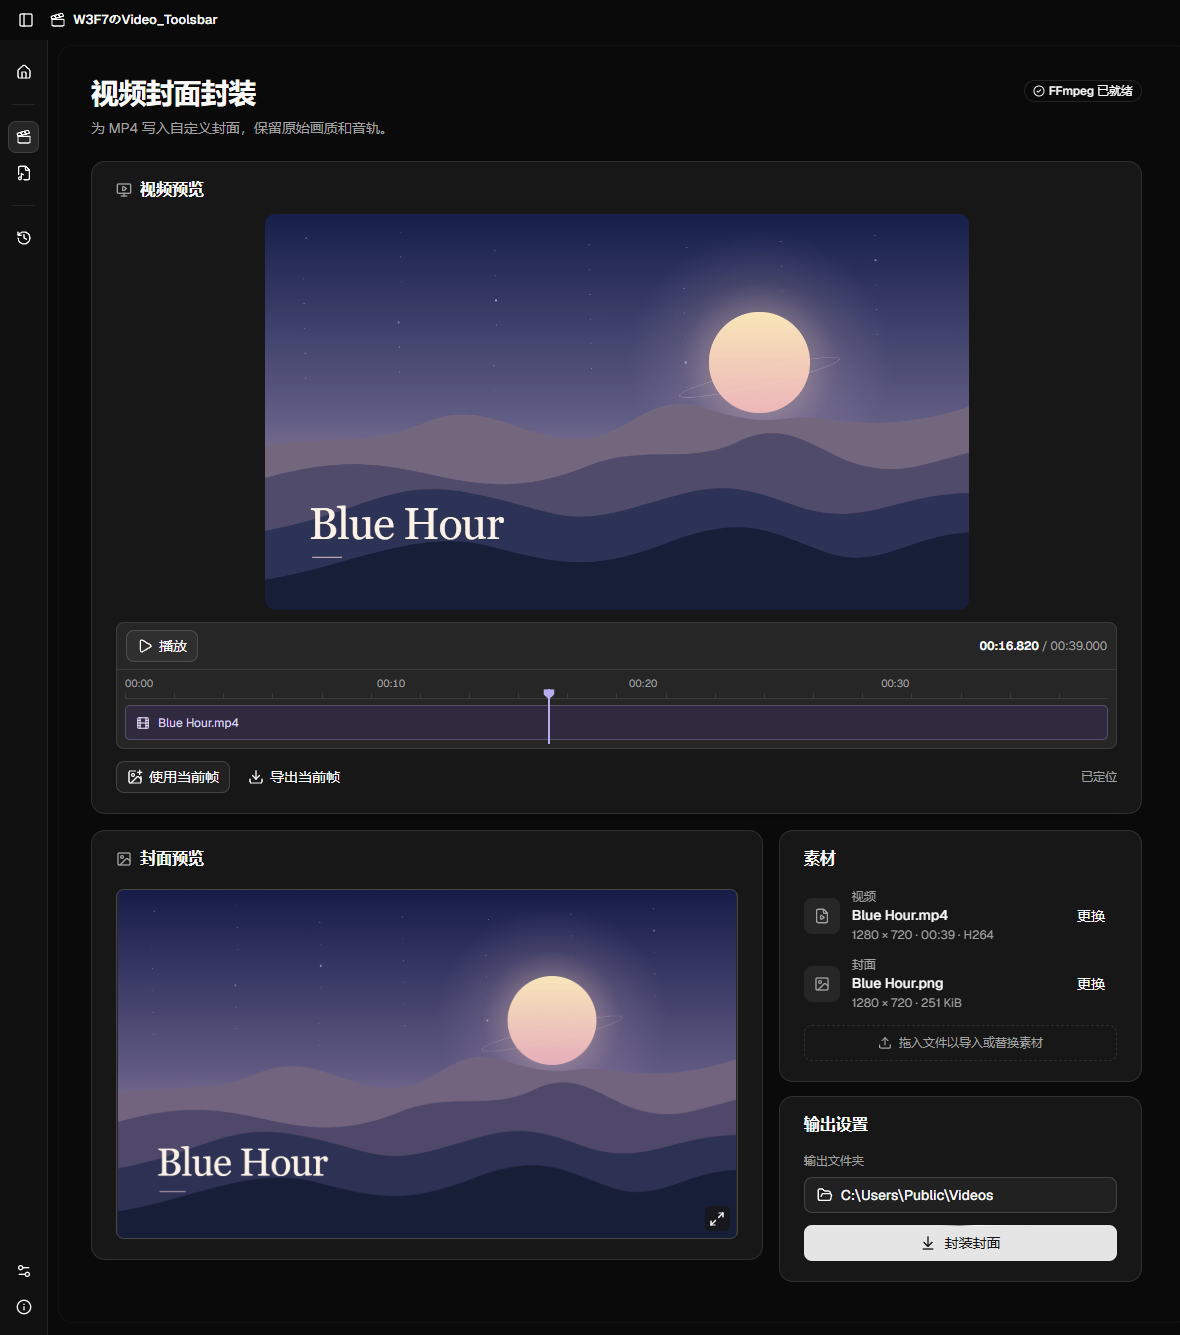
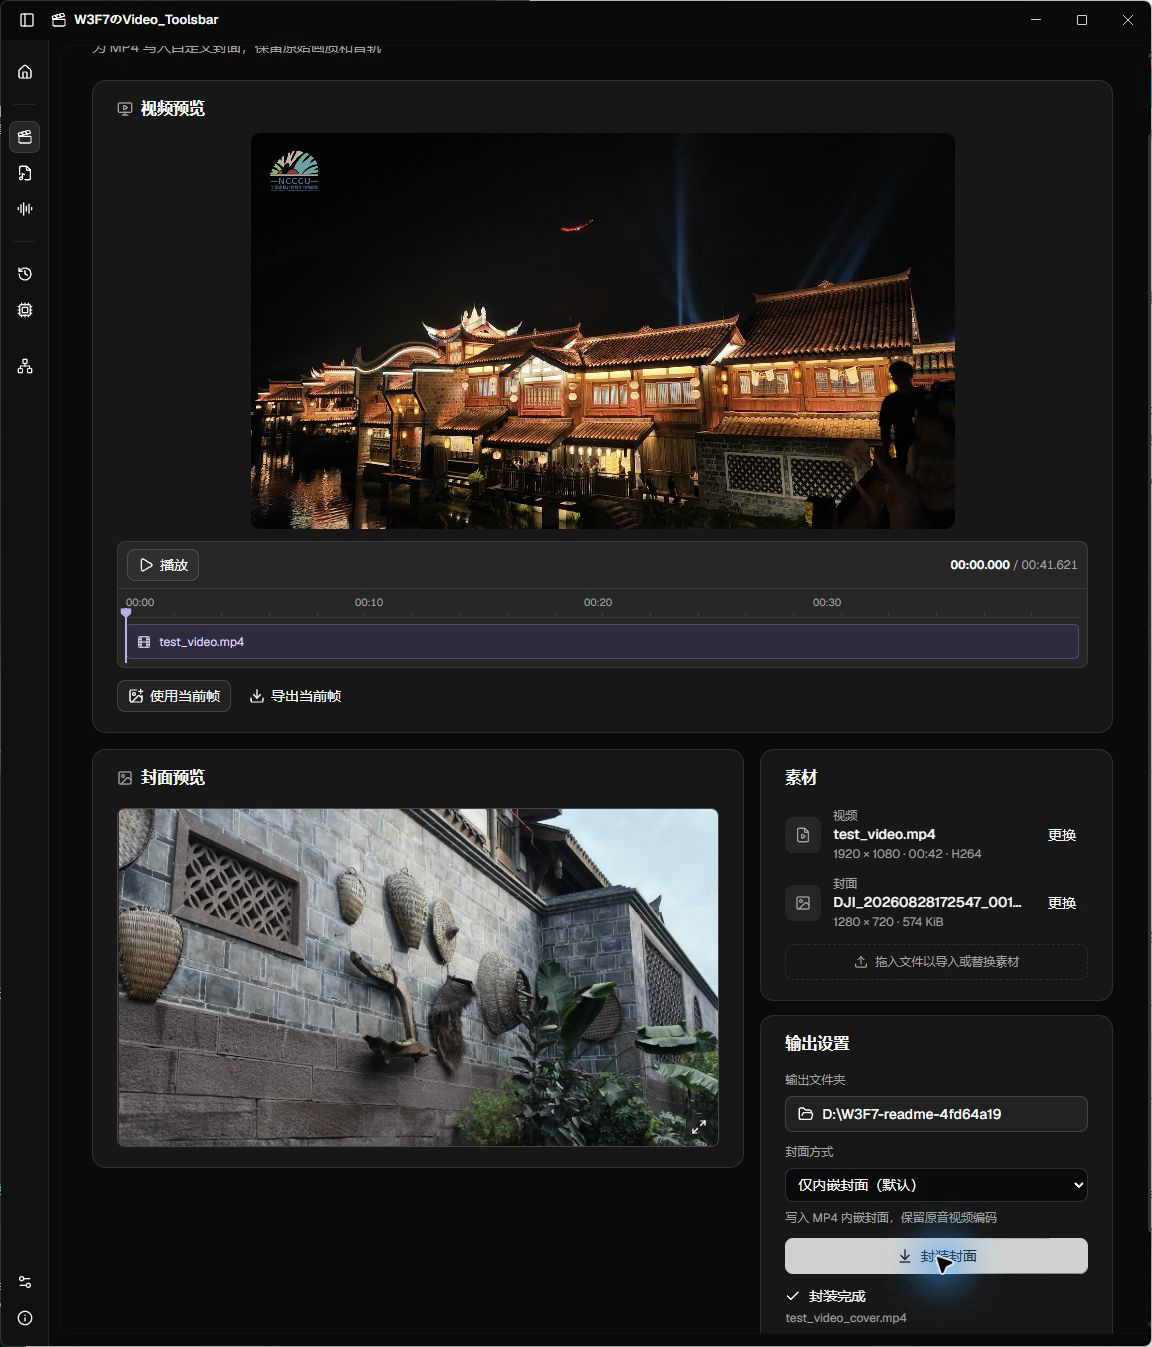
Refresh README with real application screenshots

diff --git a/README.md b/README.md
@@ -12,21 +12,33 @@
 [![MIT 许可](https://img.shields.io/badge/license-MIT-805abc?style=flat-square)](LICENSE)
 [![FFmpeg](https://img.shields.io/badge/engine-FFmpeg-4e9a76?style=flat-square)](https://ffmpeg.org/download.html#build-windows)
 
-[📦 Windows x64 安装版](https://github.com/PowerT-0704/W3F7-Video-Toolsbar/releases/download/v1.3.2/W3F7-Video-Toolsbar-1.3.2-Setup-x64.exe) · [便携版 ZIP](https://github.com/PowerT-0704/W3F7-Video-Toolsbar/releases/download/v1.3.2/W3F7-Video-Toolsbar-1.3.2-win-x64.zip) · [单文件 BAT](https://github.com/PowerT-0704/W3F7-Video-Toolsbar/releases/download/v1.3.2/W3F7-Video-Cover.bat) · [SHA-256 校验清单](https://github.com/PowerT-0704/W3F7-Video-Toolsbar/releases/download/v1.3.2/SHA256SUMS-v1.3.2.txt) · [发布说明](https://github.com/PowerT-0704/W3F7-Video-Toolsbar/releases/tag/v1.3.2)
+[📦 Windows x64 安装版](https://github.com/PowerT-0704/W3F7-Video-Toolsbar/releases/download/v1.3.2/W3F7-Video-Toolsbar-1.3.2-Setup-x64.exe) · [🗜 便携版 ZIP](https://github.com/PowerT-0704/W3F7-Video-Toolsbar/releases/download/v1.3.2/W3F7-Video-Toolsbar-1.3.2-win-x64.zip) · [⚡ 单文件 BAT](https://github.com/PowerT-0704/W3F7-Video-Toolsbar/releases/download/v1.3.2/W3F7-Video-Cover.bat) · [🔐 SHA-256 校验清单](https://github.com/PowerT-0704/W3F7-Video-Toolsbar/releases/download/v1.3.2/SHA256SUMS-v1.3.2.txt) · [发布说明](https://github.com/PowerT-0704/W3F7-Video-Toolsbar/releases/tag/v1.3.2)
 
-[界面预览](#界面预览) · [功能展示](#功能展示) · [快速开始](#快速开始) · [开发路线图](ROADMAP.md) · [历史验收记录](docs/verification.md)
+[功能速览](#功能速览) · [界面预览](#界面预览) · [功能展示](#功能展示) · [设置与关于](#设置与关于) · [快速开始](#快速开始) · [开发路线图](ROADMAP.md) · [历史验收记录](docs/verification.md)
 
 </div>
 
+## 功能速览
+
+| 工具 | 能做什么 | 常用格式 |
+| :--- | :--- | :--- |
+| 🎬 视频封面封装 | 从时间轴选帧或导入图片，内嵌封面、插入片头第一帧，或同时执行两项 | MP4 · PNG · JPG · JPEG |
+| 🎵 音乐封面解析 | 试听音频，导出内嵌封面与歌词，另存带新封面或新歌词的副本 | FLAC · MP3 · LRC |
+| 🎙 语音转录 | 批量转录、校对和翻译字幕，也可把字幕合成到视频 | SRT · ASS · VTT · TXT · JSON |
+
 ## 界面预览
+
+### 🏠 起始页
 
 <p align="center"><img src="docs/readme/home.png" width="900" alt="W3F7のVideo_Toolsbar v1.3.2 深色首页，显示视频封面封装、音乐封面解析和语音转录入口"></p>
 
-### 🌗 深浅主题
+<p align="center"><sub>起始页 · 从首页直接进入三个音视频工具</sub></p>
 
-在「设置 → 外观」拖动开关，月亮与太阳随滑块交替，页面即时换色。松手后，滑块吸附到选中的主题。深色切浅色时，流光沿滑块下边和右边移动，切回深色时沿上边和左边回到起点，完成一圈逆时针运动。
+### 🧭 展开侧栏
 
-<p align="center"><img src="docs/readme/theme-toggle.gif" width="900" alt="在设置中把主题开关从深色拖到浅色，再拖回深色。滑块上的月亮和太阳交替出现，边缘流光逆时针绕一圈"></p>
+<p align="center"><img src="docs/readme/sidebar-expanded.png" width="900" alt="v1.3.2 起始页固定展开侧栏，显示全部工具入口、模型与 API，以及底部设置和关于"></p>
+
+<p align="center"><sub>展开侧栏 · 点击窗口左上角的侧栏按钮或按 Ctrl+B 固定展开</sub></p>
 
 ## 功能展示
 
@@ -34,15 +46,19 @@
 
 在 MP4 时间轴上定位画面，可将当前帧或本地图片写为内嵌封面、插入片头第一帧，或同时执行两项。仅内嵌封面时保留原有音视频编码。
 
-<p align="center"><img src="docs/readme/video-cover.png" width="900" alt="深色视频封面工具，显示 Blue Hour 的视频预览、时间轴、封面预览及封装按钮"></p>
+<p align="center"><img src="docs/readme/video-cover.png" width="900" alt="视频封面封装实拍，显示 MP4 时间轴、从 DJI DNG 提取的街巷 JPEG 封面，以及封装完成状态"></p>
+
+<p align="center"><sub>实测 · 提取 DJI DNG 内嵌的 1280 × 720 JPEG，作为封面写入样片 MP4</sub></p>
 
 ### 🎵 音乐封面解析
 
 试听 FLAC 或 MP3，导出原封面与内嵌歌词。裁剪新封面或导入 LRC 后，可一起写入同格式的音频副本。
 
-<p align="center"><img src="docs/readme/music-cover.png" width="900" alt="深色音乐工具，显示 Blue Hour 的内嵌封面、播放器和随进度高亮的歌词"></p>
+<p align="center"><img src="docs/readme/music-cover.png" width="900" alt="音乐封面解析实拍，显示 s0rrow 的 unhappy FLAC、500 × 500 内嵌封面、暂停进度和内嵌歌词"></p>
 
-### 语音转录 · v1.3.2
+<p align="center"><sub>实测 · 导入本地 FLAC，试听并拖动进度，同时查看内嵌封面与歌词</sub></p>
+
+### 🎙 语音转录 · v1.3.2
 
 本地音视频可用必剪免 Key 转录。工作台支持长音频分块、单项和批量任务、编辑与重译字幕、导出 SRT、ASS、VTT、TXT、JSON，以及生成带软字幕或硬字幕的视频。
 
@@ -51,6 +67,46 @@
 点击顶部三个视图时，滑块沿固定轨道切换，渐变流光顺着切换方向减速淡出。「字幕优化与翻译」保留预览和校对草稿，「字幕视频合成」集中设置字幕类型、容器和输出。
 
 <p align="center"><img src="docs/readme/transcription.png" width="900" alt="v1.3.2 语音转录任务设置，左栏显示素材、任务进度和清空列表入口，右栏显示操作预设与处理选项"></p>
+
+<p align="center"><sub>语音转录工作台 · 任务队列、操作预设与处理选项</sub></p>
+
+## 设置与关于
+
+### ⚙ 设置
+
+<p align="center"><img src="docs/readme/settings.png" width="900" alt="设置页上半部分实拍，显示深色主题、减少动效和 FFmpeg 检测结果"></p>
+
+<p align="center"><sub>设置 · 外观、动效与 FFmpeg 检测</sub></p>
+
+<details>
+<summary>📂 查看输出与缓存设置</summary>
+
+<p align="center"><img src="docs/readme/settings-storage.png" width="900" alt="设置页下半部分实拍，显示默认输出文件夹、媒体缓存和转录缓存"></p>
+
+<p align="center"><sub>设置 · 默认输出文件夹、媒体缓存与转录缓存</sub></p>
+
+</details>
+
+<details>
+<summary>🌗 查看深浅主题切换演示</summary>
+
+在「设置 → 外观」拖动开关，页面即时换色，月亮与太阳随滑块交替。松手后，滑块吸附到选中的主题。
+
+<p align="center"><img src="docs/readme/theme-toggle.gif" width="900" alt="在设置中把主题从深色拖到浅色再切回，滑块图标随主题切换"></p>
+
+</details>
+
+### 🧩 模型与 API
+
+<p align="center"><img src="docs/readme/models-api.png" width="900" alt="模型与 API 页实拍，显示字幕处理模型、展开的 Whisper API 设置和本地 Whisper，两个密钥字段均待配置"></p>
+
+<p align="center"><sub>模型与 API · 字幕处理模型、联网服务和本地 Whisper</sub></p>
+
+### ℹ 关于
+
+<p align="center"><img src="docs/readme/about.png" width="900" alt="关于页实拍，显示 W3F7 作者信息、v1.3.2、检查更新、支持作者、其他链接和 GitHub 项目"></p>
+
+<p align="center"><sub>关于 · 版本、检查更新、作者与相关项目</sub></p>
 
 ## 快速开始
 
